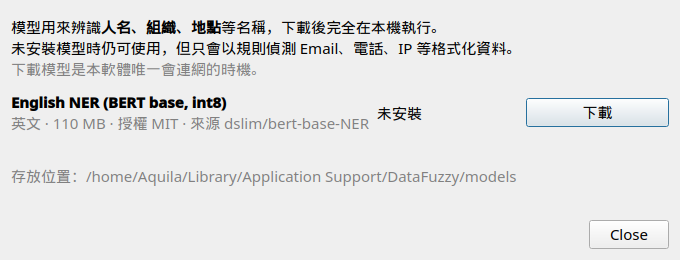
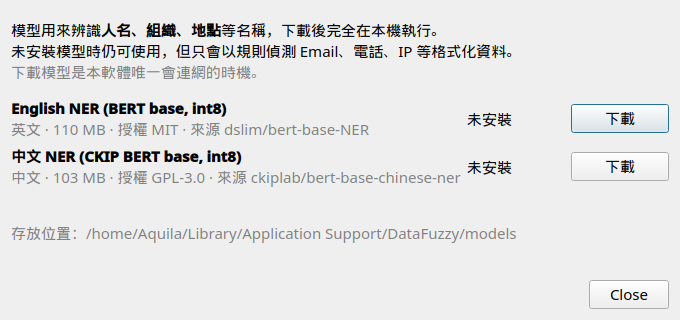
docs: document Chinese model and mixed-language usage

diff --git a/README.md b/README.md
@@ -2,7 +2,7 @@
 
 [![CI](https://github.com/AquilaWei/DataFuzzy/actions/workflows/ci.yml/badge.svg)](https://github.com/AquilaWei/DataFuzzy/actions/workflows/ci.yml)
 [![codecov](https://codecov.io/gh/AquilaWei/DataFuzzy/graph/badge.svg)](https://codecov.io/gh/AquilaWei/DataFuzzy)
-![Version](https://img.shields.io/badge/version-0.2.1-blue)
+![Version](https://img.shields.io/badge/version-0.3.0-blue)
 ![Python](https://img.shields.io/badge/python-3.12%20%7C%203.13-blue)
 ![Platform](https://img.shields.io/badge/platform-macOS%20%7C%20Linux-lightgrey)
 [![License: GPL v3](https://img.shields.io/badge/license-GPL--3.0-green)](LICENSE)
@@ -18,15 +18,15 @@
 - 🔁 **跨文本還原** — 貼回任何含代號的新文字，選擇代號檔即可換回原文
 - 🧹 **關閉即刪除** — 代號檔加密暫存，軟體關閉（或被中止）時全部刪除
 - 🧠 **名稱辨識** — 本機 NER 模型辨識人名、組織、地點；同一名稱在全文與後續輸入都換成同一代號
-- 🌏 **中英文** — 自動偵測語言；目前提供英文模型，中文模型規劃中（見 [Roadmap](#-roadmap)）
+- 🌏 **中英文** — 中文、英文各一個模型；中英混合的文字會同時用兩個模型
 
 目前可偵測：
 
 | 類別 | 代號 | 範例 |
 |---|---|---|
-| 人名 | `PERSON` | `John Smith`、`Wei-Chuang Huang`（需安裝模型） |
-| 組織 | `ORG` | `Acme Corporation`（需安裝模型） |
-| 地點 | `LOC` | `Berlin`、`San Francisco`（需安裝模型） |
+| 人名 | `PERSON` | `王小明`、`歐陽娜娜`、`John Smith`、`Wei-Chuang Huang`（需安裝模型） |
+| 組織 | `ORG` | `台積電`、`Acme Corporation`（需安裝模型） |
+| 地點 | `LOC` | `台北`、`San Francisco`（需安裝模型） |
 | Email | `EMAIL` | `bob@corp.io` |
 | 電話 | `PHONE` | `0912-345-678`、`+886 912 345 678`、`(02) 2345-6789` |
 | 身分證字號 | `TWID` | `A123456789`（驗證檢查碼） |
@@ -46,7 +46,7 @@ uv sync
 uv run datafuzzy
 ```
 
-**第一次啟動**會跳出「模型管理」，按 **下載** 取得英文模型（約 110 MB，只需一次）。之後可從選單 **模型 → 模型管理…** 新增或刪除。不下載也能用，只是人名等名稱不會被替換。
+**第一次啟動**會跳出「模型管理」，按 **下載** 取得中文（約 103 MB）與英文（約 110 MB）模型，只需一次。之後可從選單 **模型 → 模型管理…** 新增或刪除。不下載也能用，只是人名等名稱不會被替換。
 
 ![模型管理](docs/assets/model-manager.png)
 
@@ -60,15 +60,17 @@ uv run datafuzzy
 
 1. **模糊化**：選「模糊化」→ 代號檔選「＋ 新代號檔」→ 貼上文字 → **⌘/Ctrl + Enter**
    ```
-   Hi Maria, please ask John Smith at Acme Corporation to email john.smith@acme.com
-   → Hi [PERSON_A], please ask [PERSON_B] at [ORG_A] to email [EMAIL_A]
+   王小明明天跟台積電的陳大華開會，會後小明再寄信給 John Smith
+   → [PERSON_A]明天跟[ORG_A]的[PERSON_B]開會，會後[PERSON_A]再寄信給 [PERSON_C]
    ```
 2. **還原**：選「還原」→ 選要用的代號檔 → 貼上含代號的文字
    ```
-   [PERSON_A] told [PERSON_B] that [ORG_A] approved it
-   → Maria told John Smith that Acme Corporation approved it
+   [PERSON_A] 已與 [PERSON_C] 確認
+   → 王小明 已與 John Smith 確認
    ```
 3. 點回覆旁的 **複製** 即可取用結果。
+
+**語言**選「自動偵測」時，文字含中文就用中文模型、含英文就用英文模型，混合時兩個都用；手動選 English / 中文 則只用該語言的模型。
 
 ## 🛡 隱私與安全
 
@@ -80,8 +82,8 @@ uv run datafuzzy
 ## ⚠ 已知限制
 
 - 英文模型區分大小寫：全小寫的名字（`john smith`）可能漏掉
-- 單獨出現的名或姓會沿用全名的代號（`John Smith`、`John` → `[PERSON_A]`），還原時一律還原成全名；一個名字一旦在代號檔中連到某人，之後出現同名的另一人也不會改變
-- 中文名字（`王小明` ↔ `小明`）尚未連結
+- 單獨出現的名或姓會沿用全名的代號（`John Smith`、`John` → `[PERSON_A]`；`王小明`、`小明` → `[PERSON_A]`），還原時一律還原成全名；一個名字一旦在代號檔中連到某人，之後出現同名的另一人也不會改變
+- 中文只連結「名」，單獨的姓（`王先生`）不連結；中文模型以繁體中文訓練，簡體中文效果可能較差
 - 產品名稱偶爾會被當成人名或組織而替換（寧可多遮，不要漏遮）
 
 ## 🏗 架構
@@ -90,7 +92,7 @@ uv run datafuzzy
 flowchart LR
     A[輸入文字] --> B{語言偵測}
     B --> C[規則偵測器<br/>regex]
-    B --> D[NER 模型<br/>ONNX Runtime]
+    B --> D[NER 模型 中文 / 英文<br/>ONNX Runtime]
     C --> E[合併重疊區段]
     D --> E
     E --> K[同名全文替換<br/>+ 已知名稱]
@@ -117,7 +119,7 @@ src/datafuzzy/
 
 - [x] 0.1 — 規則偵測、代號對應、加密暫存、對話介面
 - [x] 0.2 — 模型下載管理 + 英文 NER（`dslim/bert-base-NER`）
-- [ ] 0.3 — 中文 NER（`ckiplab/bert-base-chinese-ner`）
+- [x] 0.3 — 中文 NER（`ckiplab/bert-base-chinese-ner`）、中英混合文字
 - [ ] 0.4 — 代號檔管理（命名、預覽、自動推薦）
 - [ ] 0.5 — Mac `.dmg` / Linux AppImage（不含模型，安裝後下載）
 
@@ -130,7 +132,7 @@ tools/test_arm64.sh      # 在 arm64 + 8GB 限制的容器中測試（模擬 App
 uv run tools/update_manifest.py  # 更新模型版本後重新產生 models_manifest.json
 ```
 
-模型相關測試需要本機有英文模型（在 App 內下載，或先跑 `tools/update_manifest.py`），否則會自動略過；CI 一定會下載並執行。
+模型相關測試需要本機有對應的模型（在 App 內下載，或先跑 `tools/update_manifest.py`），否則會自動略過；CI 一定會下載並執行。
 
 - **Commit 格式：** `<type>: <description>`（英文），type 為 `feat` `fix` `docs` `style` `refactor` `perf` `test` `chore`
 - **版號：** `MAJOR.MINOR.PATCH` — 新功能測試通過升 MINOR，bug 修正升 PATCH；變更記錄於 [CHANGELOG](CHANGELOG.md)
@@ -142,6 +144,6 @@ uv run tools/update_manifest.py  # 更新模型版本後重新產生 models_mani
 | 模型 | 授權 | 下載來源（int8 ONNX） |
 |---|---|---|
 | [`dslim/bert-base-NER`](https://huggingface.co/dslim/bert-base-NER) | MIT | [`Xenova/bert-base-NER`](https://huggingface.co/Xenova/bert-base-NER) |
-| [`ckiplab/bert-base-chinese-ner`](https://huggingface.co/ckiplab/bert-base-chinese-ner)（規劃中） | GPL-3.0，© CKIP Lab | [`Xenova/bert-base-chinese-ner`](https://huggingface.co/Xenova/bert-base-chinese-ner) |
+| [`ckiplab/bert-base-chinese-ner`](https://huggingface.co/ckiplab/bert-base-chinese-ner) | GPL-3.0，© CKIP Lab | [`Xenova/bert-base-chinese-ner`](https://huggingface.co/Xenova/bert-base-chinese-ner) |
 
 模型不隨程式散布，由使用者在 App 內自行下載。
